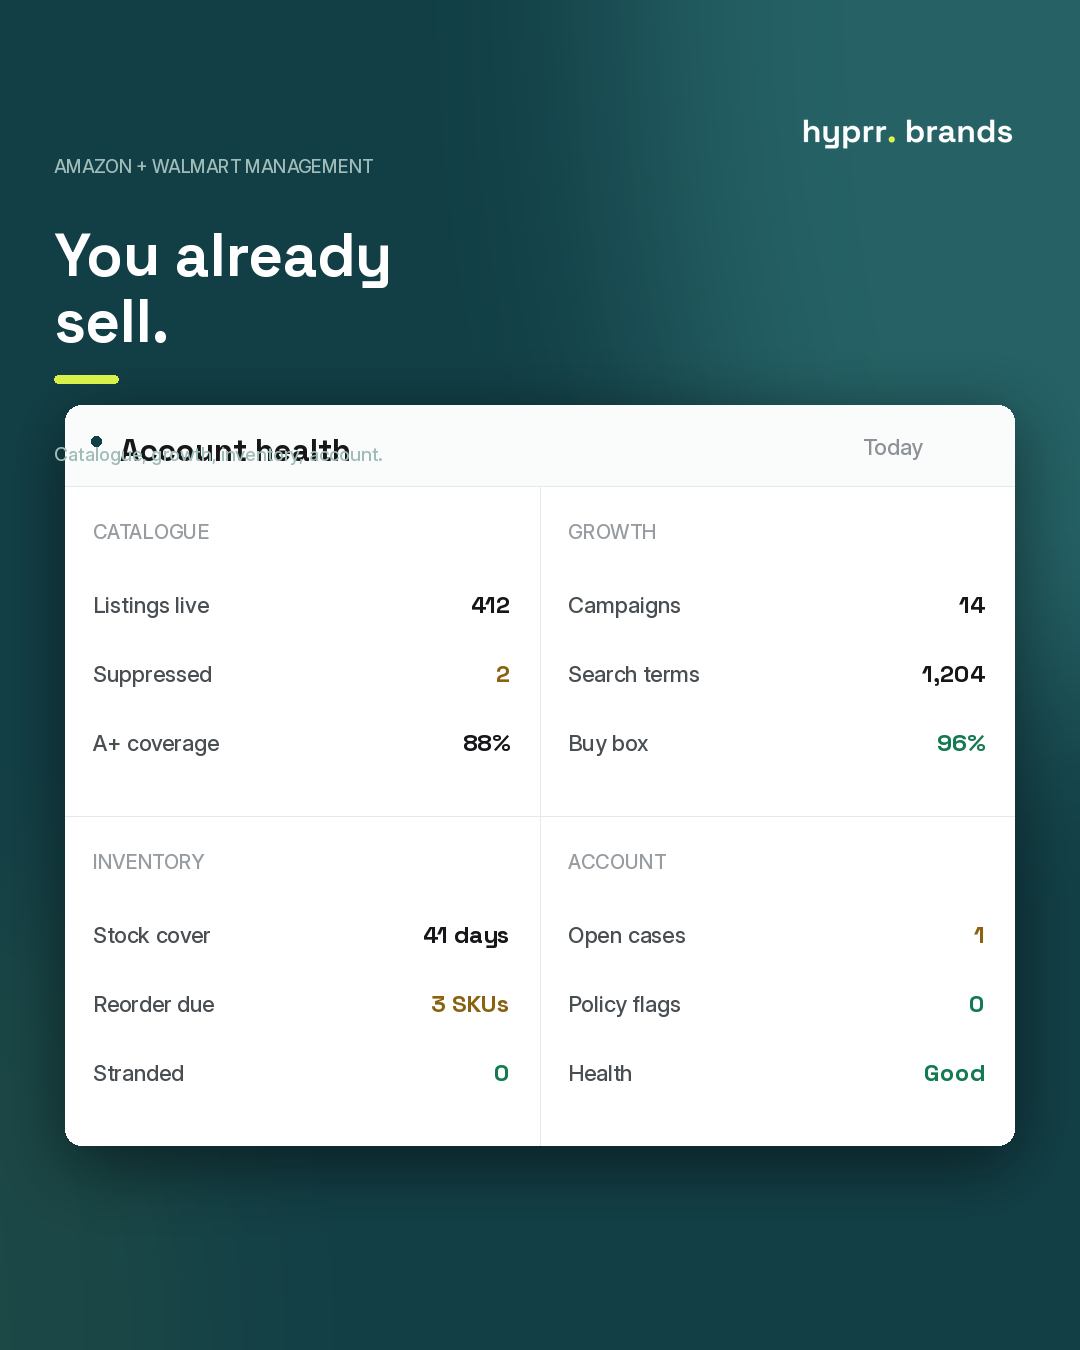
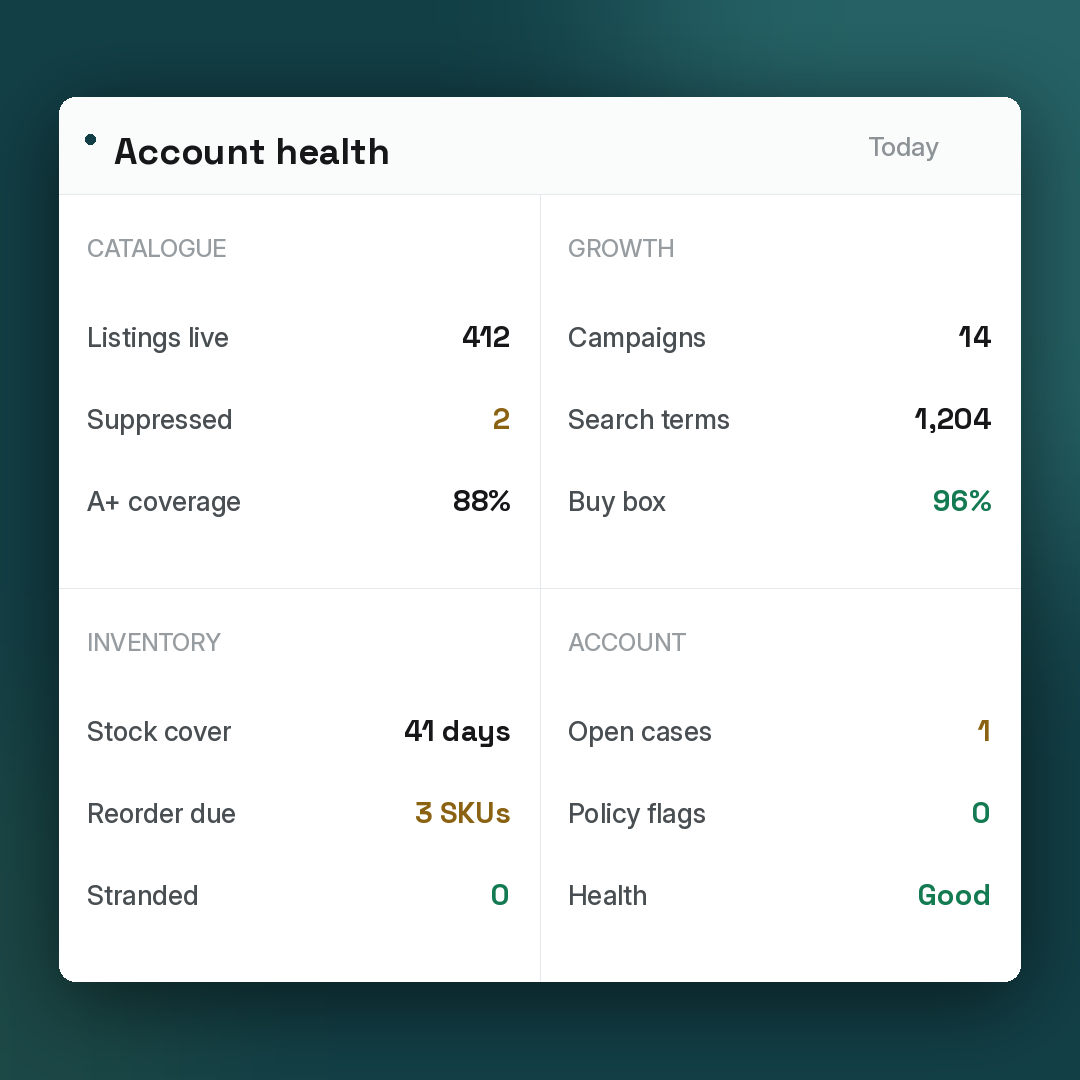
v4: files-9 (DEV_NOTES_NEXT) — contact inbox, final text-free heroes, stone-mat trim
- /api/contact: notifications to hyprr@hyprrbrands.com, from address on
  the verified send.hyprrbrands.com subdomain, auto-reply reply_to set
  so lead replies land in the same inbox; mailto fallback and the
  privacy form-delivery sentence updated to match
- Homepage hero: final circuit-grid composite (1600x1000 + 1080x1350
  mobile), text-free per the correction note, new alt; animated
  variant kept in /img as opt-in only (their table ships the static)
- Management hero: rebuilt text-free 4:3 (1600x1200 + 1080x1080
  square mobile), width/height updated on img and mobile source
- Stone-mat frequency reduced: process strip removed from the homepage
  proof row (stays on /amazon-private-label and /proof)
- Item 3 (using a seller's listing photo) declined by the designer —
  no action; the render stands

diff --git a/app/page.tsx b/app/page.tsx
@@ -85,10 +85,10 @@ export default function Page() {
               <img
                 src="/img/home-hero-1600.png"
                 width={1600}
-                height={900}
+                height={1000}
                 fetchPriority="high"
                 decoding="async"
-                alt="Hyprr's operations view on screen beside a live product listing showing buy box, stock cover and margin"
+                alt="Eight areas of a marketplace operation — sourcing, listings, advertising, inventory, orders, margin, Amazon and Walmart — connected to Hyprr at the centre"
               />
             </picture>
           </figure>
@@ -476,26 +476,6 @@ export default function Page() {
               </div>
             </a>
           </div>
-          <a className="strip-link" href="/proof" aria-label="The product development trail, on the proof page">
-            <picture>
-              <source
-                media="(max-width: 760px)"
-                srcSet="/img/pl-process-mobile-1080.webp"
-                type="image/webp"
-                width={1080}
-                height={1350}
-              />
-              <source srcSet="/img/pl-process-1600.webp" type="image/webp" />
-              <img
-                src="/img/pl-process-1600.png"
-                width={1600}
-                height={900}
-                loading="lazy"
-                decoding="async"
-                alt="Four stages of product development: dimension drawing, hinge mechanism, groove studies, finished product"
-              />
-            </picture>
-          </a>
         </div>
       </section>
 

diff --git a/app/api/contact/route.ts b/app/api/contact/route.ts
@@ -7,8 +7,10 @@ import { NextResponse } from "next/server";
  * cleanly (mailto compose) and nothing breaks before the owner adds
  * the key.
  */
-const TO = "hello@hyprrbrands.com";
-const FROM = "Hyprr Brands <hello@hyprrbrands.com>";
+/* DEV_NOTES_NEXT §1: notifications land at hyprr@; Resend is verified
+   on send.hyprrbrands.com, so the from address lives there. */
+const TO = "hyprr@hyprrbrands.com";
+const FROM = "Hyprr Brands <hello@send.hyprrbrands.com>";
 
 interface Payload {
   name?: string;
@@ -93,9 +95,11 @@ export async function POST(req: Request) {
   }
 
   // Auto-reply — best effort; a failure here must not fail the submit.
+  // reply_to points at the real inbox so a lead replying lands there.
   await send({
     from: FROM,
     to: [email],
+    reply_to: TO,
     subject: "Received — Hyprr Brands",
     text: [
       `Hi ${name},`,

diff --git a/app/amazon-walmart-management/page.tsx b/app/amazon-walmart-management/page.tsx
@@ -110,13 +110,13 @@ export default function Page() {
                 srcSet="/img/mgmt-hero-mobile-1080.webp"
                 type="image/webp"
                 width={1080}
-                height={1350}
+                height={1080}
               />
               <source srcSet="/img/mgmt-hero-1600.webp" type="image/webp" />
               <img
                 src="/img/mgmt-hero-1600.png"
                 width={1600}
-                height={900}
+                height={1200}
                 fetchPriority="high"
                 decoding="async"
                 alt="An account health panel showing catalogue, growth, inventory and account figures for a marketplace seller"

diff --git a/app/privacy/page.tsx b/app/privacy/page.tsx
@@ -30,7 +30,7 @@ export default function Page() {
       <p>
         The contact form asks for your name, email address and the context
         you choose to write. Sending it delivers your message to
-        hello@hyprrbrands.com through our email provider, Resend, and sends
+        hyprr@hyprrbrands.com through our email provider, Resend, and sends
         you a confirmation copy; if delivery is not configured, the form
         opens an email from your own mail client instead and the site stores
         nothing. Our hosting provider keeps standard server logs (IP address,

diff --git a/components/ContactForm.tsx b/components/ContactForm.tsx
@@ -66,7 +66,7 @@ export default function ContactForm() {
       "",
       `Message:\n${form.message}`,
     ].join("\n");
-    window.location.href = `mailto:hello@hyprrbrands.com?subject=${encodeURIComponent(
+    window.location.href = `mailto:hyprr@hyprrbrands.com?subject=${encodeURIComponent(
       `Context from ${form.name}`
     )}&body=${encodeURIComponent(body)}`;
     setStatus("fallback");

diff --git a/docs/v4/handoff/DEV_NOTES_NEXT.md b/docs/v4/handoff/DEV_NOTES_NEXT.md
@@ -1,0 +1,121 @@
+# Dev notes — three items
+
+**8 Sep 2026.** Verified against live production before writing this. Everything below is real.
+
+---
+
+## 1 · Contact form destination
+
+Change from `hello@hyprrbrands.com` to **`hyprr@hyprrbrands.com`**.
+
+- `app/api/contact/route.ts` — the recipient constant.
+- The auto-reply `reply-to` header, so a lead replying lands in the same inbox.
+- Any `mailto:` on `/contact` or in the footer.
+
+`RESEND_API_KEY` is already set in Vercel via the Resend integration. Resend is verified on the
+subdomain **`send.hyprrbrands.com`**, so the from address should be on that subdomain, e.g.
+`Hyprr Brands <hello@send.hyprrbrands.com>`, with reply-to set to `hyprr@hyprrbrands.com`.
+
+**Test after deploy:** submit the form, confirm the notification reaches `hyprr@hyprrbrands.com`,
+confirm the auto-reply arrives, and confirm replying to it lands in the right inbox.
+
+---
+
+## 2 · Hero images — replace, same filenames
+
+**Both heroes were built wrong and I have rebuilt them. This is my correction, not a build fault.**
+
+The old versions were standalone posters — each had its own eyebrow, headline and Hyprr wordmark
+baked into the image. Placed next to the page's H1, with the site logo in the header directly
+above, the visitor saw the wordmark twice and a headline twice. That is why the hero read as small
+and badly fitted rather than filling its section.
+
+The replacements are **pure visual** — no text, no logo, no headline. Just the interface.
+
+| File | Old | New |
+|---|---|---|
+| `home-hero-1600` | 1600×900, poster | **1600×1200**, visual only |
+| `home-hero-mobile-1080` | 1080×1350 | **1080×1080**, visual only |
+| `mgmt-hero-1600` | 1600×900, poster | **1600×1200**, visual only |
+| `mgmt-hero-mobile-1080` | 1080×1350 | **1080×1080**, visual only |
+
+**The dimensions changed, so the markup must change too.** Update `width` and `height` on both the
+`<img>` and the mobile `<source>`, or the browser will reserve the wrong box and the layout will
+shift as it loads.
+
+Desktop is now 4:3 and mobile is square. Both suit a hero column better than 16:9, which was
+leaving the image short against the copy beside it.
+
+**Also:** let the hero image fill the full width of its column, edge to edge, with no inner
+padding. It is a designed frame already — a margin around it wastes the space that made it look
+small.
+
+Alt text is unchanged.
+
+---
+
+## 3 · Stone mat photography — not doing this, and why
+
+The request was to find a similar stone mat photo on Amazon or elsewhere online and use it.
+
+**I have not done that and would advise against it.** Those listing photos belong to the sellers
+and brands who shot them. Using one on a page about products Hyprr designs is someone else's
+copyrighted image representing your own work, and it is the one claim on the site a competitor
+would recognise instantly — the mats may look alike to us, but the seller who paid for that shoot
+knows their own photograph.
+
+**Three routes that work instead, in order:**
+
+1. **Keep the existing render.** It is from the real development thread, it is yours, and it is
+   already the strongest visual on the site.
+2. **Canva Pro stock**, which is licensed for commercial use. Search `diatomite bath mat`,
+   `stone mat kitchen`, `absorbent stone tray`. Pick one, send it to me, I will grade and composite
+   it like the warehouse and category images.
+3. **Buy one mat and photograph it.** Twenty dollars and an afternoon. A real object on a real
+   counter beats every stock alternative and it is genuinely yours.
+
+Nothing is blocked by this. The private label page has the render, the process strip, the family
+shot and the category strip already.
+
+---
+
+## 4 · Homepage hero — final
+
+**Supersedes every earlier homepage hero.** The management hero from item 2 stands unchanged.
+
+| File | Size | Note |
+|---|---|---|
+| `home-hero-1600` | **1600×1000** | Static. Ship this |
+| `home-hero-mobile-1080` | **1080×1350** | Static, under 760px |
+| `home-hero-animated.webp` | 1200×750, 149KB | Optional, see below |
+
+**The concept.** Eight operational areas in a grid — sourcing, listings, advertising, inventory,
+orders, margin, Amazon, Walmart — wired into Hyprr at the centre on orthogonal circuit-style
+routes. Data moves along the traces in **both directions**, because the operation is not one-way:
+sourcing feeds listings, orders feed margin, margin feeds the next buying decision.
+
+**Icons only. No product photography anywhere in it.** That was deliberate — the previous versions
+used the stone mat, and the site was starting to look as though it had been built around a single
+job.
+
+**On the animated file.** Dots travel along the traces, alternating direction per path, looping.
+It suits this composition better than it suited the last one because the movement *is* the message.
+Still weigh it: 149KB against 42KB static, it counts toward Largest Contentful Paint, and a loop in
+the hero competes with the headline. If you ship it, wrap it so `prefers-reduced-motion` falls back
+to the static file.
+
+**Dimensions changed** — update `width` and `height` on the `<img>` and the mobile `<source>`.
+
+**Alt text:** *Eight areas of a marketplace operation — sourcing, listings, advertising, inventory,
+orders, margin, Amazon and Walmart — connected to Hyprr at the centre.*
+
+---
+
+## 5 · The stone mat appears too often — reduce it
+
+Currently on: the private label hero, the process strip, the family shot, the listing
+before-and-after, and the homepage proof row. Five placements of one product reads as one job.
+
+**Recommendation:** keep it on `/amazon-private-label` and `/proof`, where it proves design
+capability and is the point. **Remove the process strip from the homepage proof row** — the
+homepage already has three proof cards without it. One change, and the impression goes.
